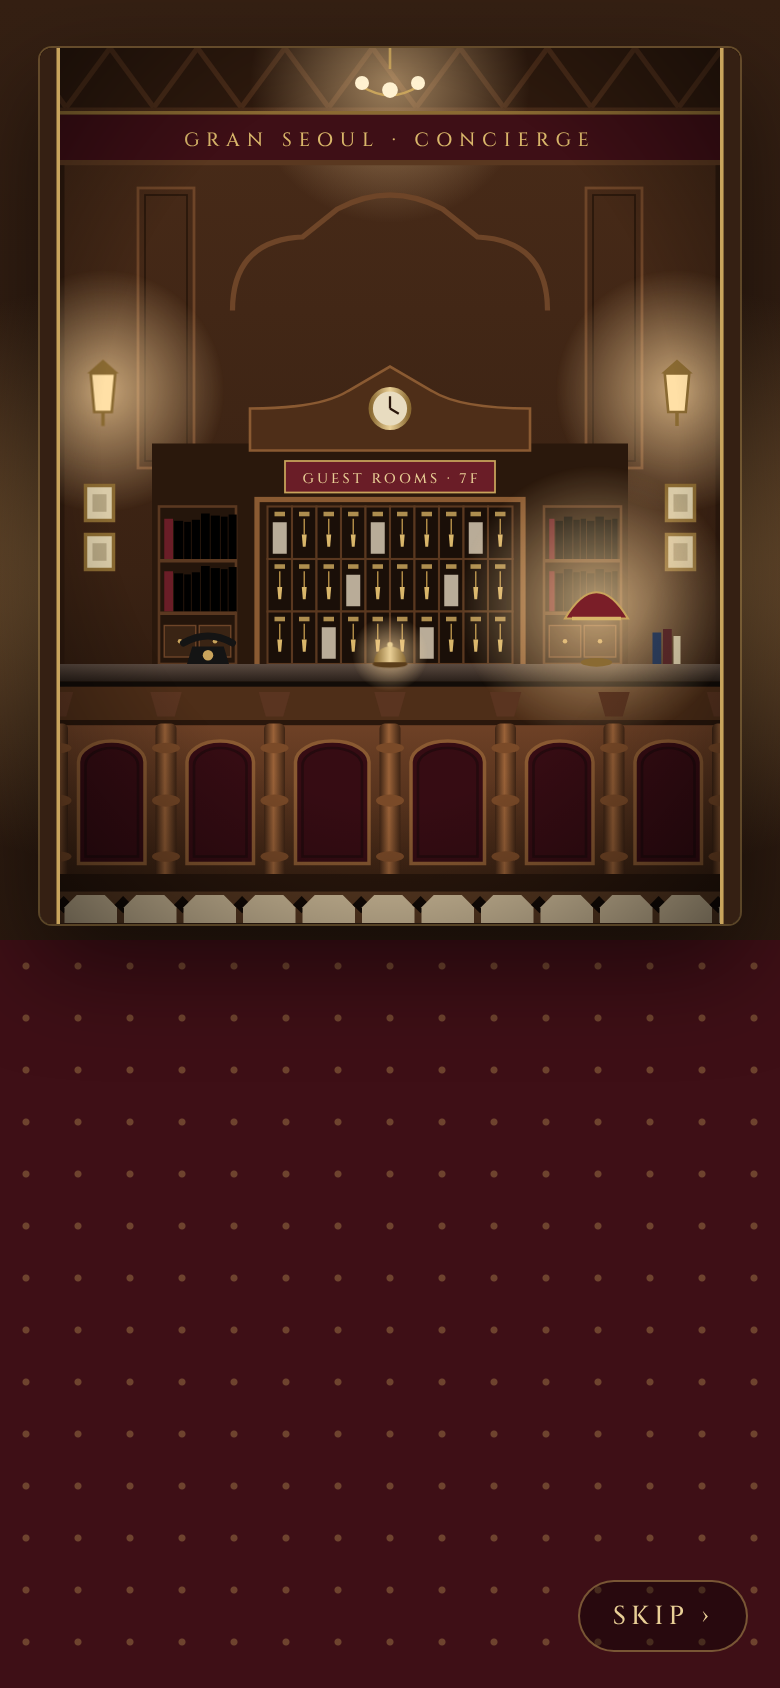
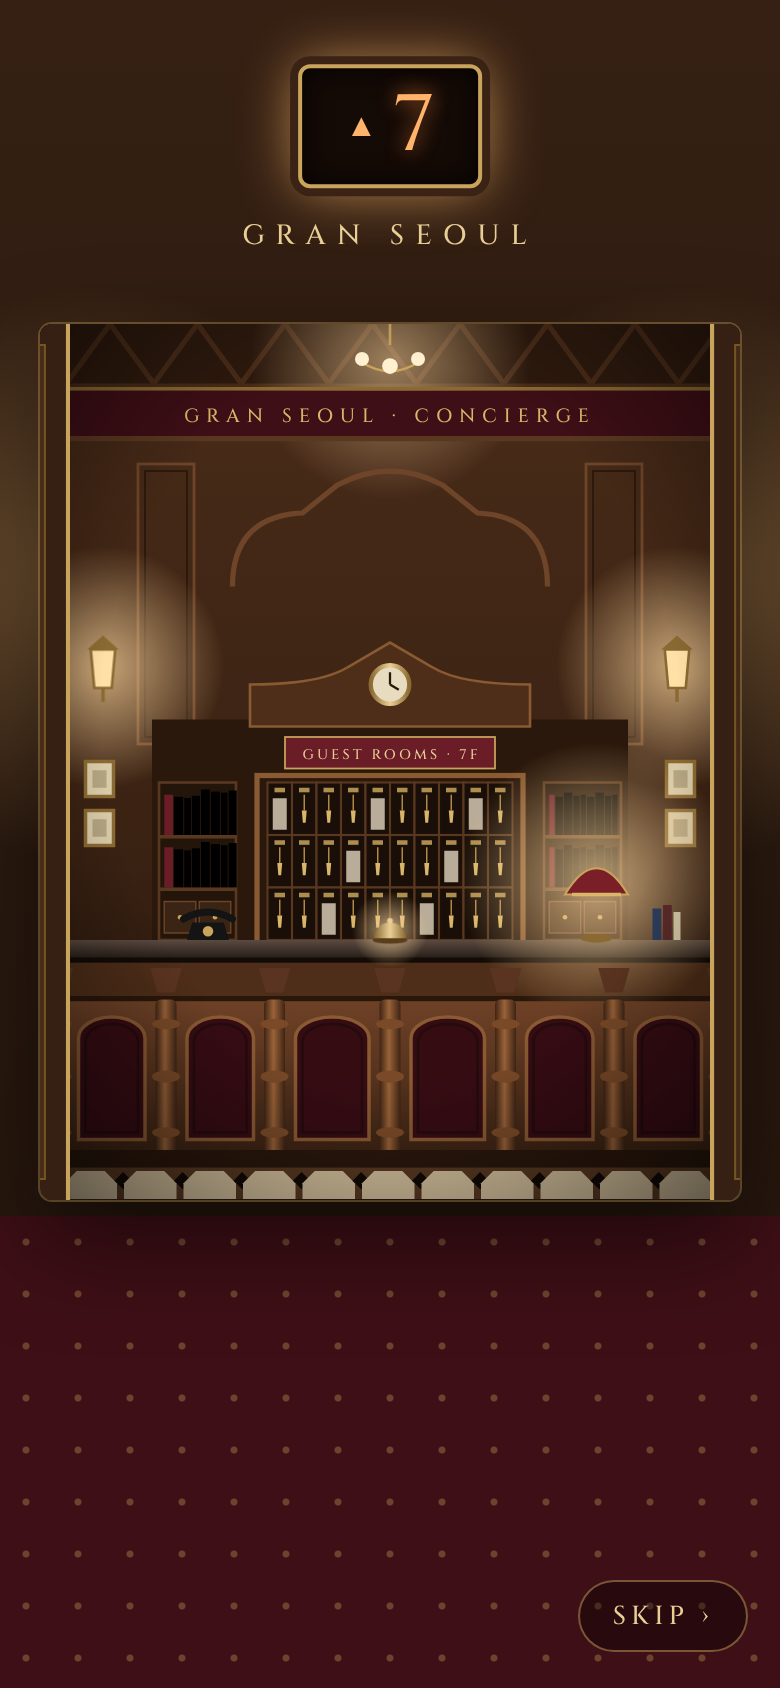
Chandelier above lobby desk; elevator floor indicator sits above the doors in that band
Claude-Session: https://claude.ai/code/session_011z6wvs2Gb5um8vyCmLK585

diff --git a/index.html b/index.html
@@ -124,13 +124,19 @@ body.dark #ceiling{display:none}
   background:radial-gradient(circle at 12% 34%,rgba(255,200,120,.35),transparent 22%),radial-gradient(circle at 88% 34%,rgba(255,200,120,.35),transparent 22%),
   linear-gradient(180deg,var(--walnut-700),var(--walnut-800));transition:opacity .6s;
   --t:24px;--l:20px;--w:calc(100% - 40px);--h:calc((100vw - 40px) * 1.25)}
+/* 첫 화면 위쪽 샹들리에 (엘리베이터 층수 표시가 있던 자리) */
+.chand{height:150px;margin:-24px -20px -10px;position:relative;pointer-events:none}
+.chand svg{width:100%;height:100%;display:block;overflow:visible}
+.chand .sway{transform-origin:200px 0;animation:chSway 6s ease-in-out infinite}
+@keyframes chSway{0%,100%{transform:rotate(-.6deg)}50%{transform:rotate(.6deg)}}
+.chand .fl{animation:flicker 3.5s ease-in-out infinite}
 /* 엘리베이터 문 = 첫 화면 프런트 데스크와 똑같은 자리·크기 → 문이 열리면 그대로 로비로 이어짐 */
 .shaft{position:absolute;top:var(--t);left:var(--l);width:var(--w);height:var(--h);overflow:hidden;border-radius:6px;z-index:2;
   box-shadow:0 0 0 1px rgba(201,164,92,.35),0 0 0 6px var(--walnut-800),0 0 0 8px var(--brass-dark),0 20px 50px rgba(0,0,0,.5)}
 #lift.open .shaft{box-shadow:0 0 0 1px rgba(201,164,92,.35),0 20px 50px rgba(0,0,0,.5);transition:box-shadow 1s}
 #lift.out{opacity:0;pointer-events:none}
 .lift-floor{position:absolute;left:0;right:0;bottom:0;top:calc(var(--t) + var(--h) + 8px);background:radial-gradient(circle,rgba(201,164,92,.35) 1.5px,transparent 2px) 0 0/26px 26px,var(--burgundy-deep)}
-.lift-ind{position:absolute;top:calc(var(--t) + var(--h) * .2);left:50%;transform:translate(-50%,-50%);z-index:3;transition:opacity .5s;text-align:center;font-family:var(--en);color:var(--brass-light)}
+.lift-ind{position:absolute;top:calc(var(--t) / 2);left:50%;transform:translate(-50%,-50%);z-index:3;transition:opacity .5s;text-align:center;font-family:var(--en);color:var(--brass-light)}
 .lift-ind .box{width:92px;height:62px;margin:0 auto;border-radius:6px;background:#140a06;border:2px solid var(--brass);display:flex;align-items:center;justify-content:center;gap:8px;font-size:40px;line-height:1;box-shadow:0 0 0 4px #3a2214,inset 0 0 14px rgba(0,0,0,.8)}
 .lift-ind .box span{color:#ffb36b;text-shadow:0 0 10px rgba(255,140,60,.8);font-variant-numeric:tabular-nums}
 .lift-ind .box em{font-style:normal;font-size:16px;color:#ffb36b}
@@ -142,7 +148,6 @@ body.dark #ceiling{display:none}
 .door::after{content:'';position:absolute;inset:16% 18%;border:2px solid rgba(201,164,92,.5);border-radius:2px;box-shadow:inset 0 0 30px rgba(0,0,0,.35)}
 .door.l{left:0;border-right:2px solid var(--brass)}
 .door.r{right:0;border-left:2px solid var(--brass)}
-#lift.open .lift-ind{opacity:0}
 #lift.open .door.l{transform:translateX(-100%)}
 #lift.open .door.r{transform:translateX(100%)}
 .lift-behind{position:absolute;inset:0;z-index:1;background:var(--walnut-800);overflow:hidden}
@@ -432,6 +437,7 @@ body.velvet{background:repeating-linear-gradient(90deg,#4a1219 0 14px,#5c1820 26
 <div class="wrap">
 <section class="screen" id="s-home">
   <div class="stack" style="gap:22px">
+    <div class="chand" id="homeChand" aria-hidden="true"></div>
     <div class="desk" id="homeDesk"></div>
     <div class="hero-copy">
       <span class="plate">GRAN SEOUL · 7F</span>
@@ -1199,6 +1205,33 @@ function deskSVG(id) {   // id: 그림마다 다른 이름 (같은 이름을 쓰
 </svg>`;
 }
 $('homeDesk').innerHTML = deskSVG('home');
+/* 샹들리에: 황동 체인 · 2단 팔 · 촛불 전구 · 크리스털 방울 */
+(function chandelier() {
+  const arm = (cx, cy, rx, n, y0) => { let o = '';
+    for (let i = 0; i < n; i++) { const a = Math.PI * (i + .5) / n, x = cx - rx * Math.cos(a), y = cy + rx * .22 * Math.sin(a);
+      o += `<path d="M${cx} ${y0}Q${(cx + x) / 2} ${y + 10} ${x} ${y}" stroke="url(#chb)" stroke-width="2" fill="none"/>
+        <rect x="${x - 3}" y="${y - 4}" width="6" height="5" rx="1" fill="url(#chb)"/>
+        <circle class="fl" cx="${x}" cy="${y - 12}" r="16" fill="url(#chg)"/>
+        <path d="M${x - 2.4} ${y - 4}v-6q2.4-5 4.8 0v6z" fill="#fff4d6"/>
+        <path d="M${x} ${y + 2}l-2.5 6 2.5 5 2.5-5z" fill="#f6f0e6" opacity=".8"/>`; }
+    return o; };
+  let drops = ''; for (let i = 0; i < 9; i++) { const x = 160 + i * 10, y = 112 + 10 * Math.sin(Math.PI * i / 8);
+    drops += `<path d="M${x} ${y - 6}l-2 5 2 5 2-5z" fill="#f6f0e6" opacity=".75"/>`; }
+  $('homeChand').innerHTML = `<svg viewBox="0 0 400 150" preserveAspectRatio="xMidYMin meet">
+    <defs><linearGradient id="chb" x1="0" x2="1"><stop offset="0" stop-color="#8a6a32"/><stop offset=".5" stop-color="#f0d89c"/><stop offset="1" stop-color="#8a6a32"/></linearGradient>
+      <radialGradient id="chg"><stop offset="0" stop-color="#ffd9a0" stop-opacity=".7"/><stop offset="1" stop-color="#ffd9a0" stop-opacity="0"/></radialGradient>
+      <radialGradient id="chh" cx=".5" cy=".55"><stop offset="0" stop-color="#ffcf8a" stop-opacity=".28"/><stop offset="1" stop-color="#ffcf8a" stop-opacity="0"/></radialGradient></defs>
+    <ellipse cx="200" cy="85" rx="190" ry="85" fill="url(#chh)"/>
+    <ellipse cx="200" cy="4" rx="22" ry="5" fill="url(#chb)"/>
+    <g class="sway">
+      <path d="M200 6v36" stroke="url(#chb)" stroke-width="2" stroke-dasharray="3 2"/>
+      <ellipse cx="200" cy="46" rx="7" ry="5" fill="url(#chb)"/><path d="M196 50h8l-1 40h-6z" fill="url(#chb)"/>
+      <ellipse cx="200" cy="66" rx="5" ry="4" fill="#f0d89c"/>
+      ${arm(200, 74, 46, 4, 70)}${arm(200, 96, 86, 6, 92)}
+      <ellipse cx="200" cy="96" rx="12" ry="7" fill="url(#chb)"/><path d="M194 102q6 14 12 0z" fill="url(#chb)"/>
+      ${drops}<circle cx="200" cy="120" r="3" fill="#f6f0e6"/>
+    </g></svg>`;
+})();
 
 /* 아이보리 화면 위쪽 조명 그림 */
 (function ceiling() {
